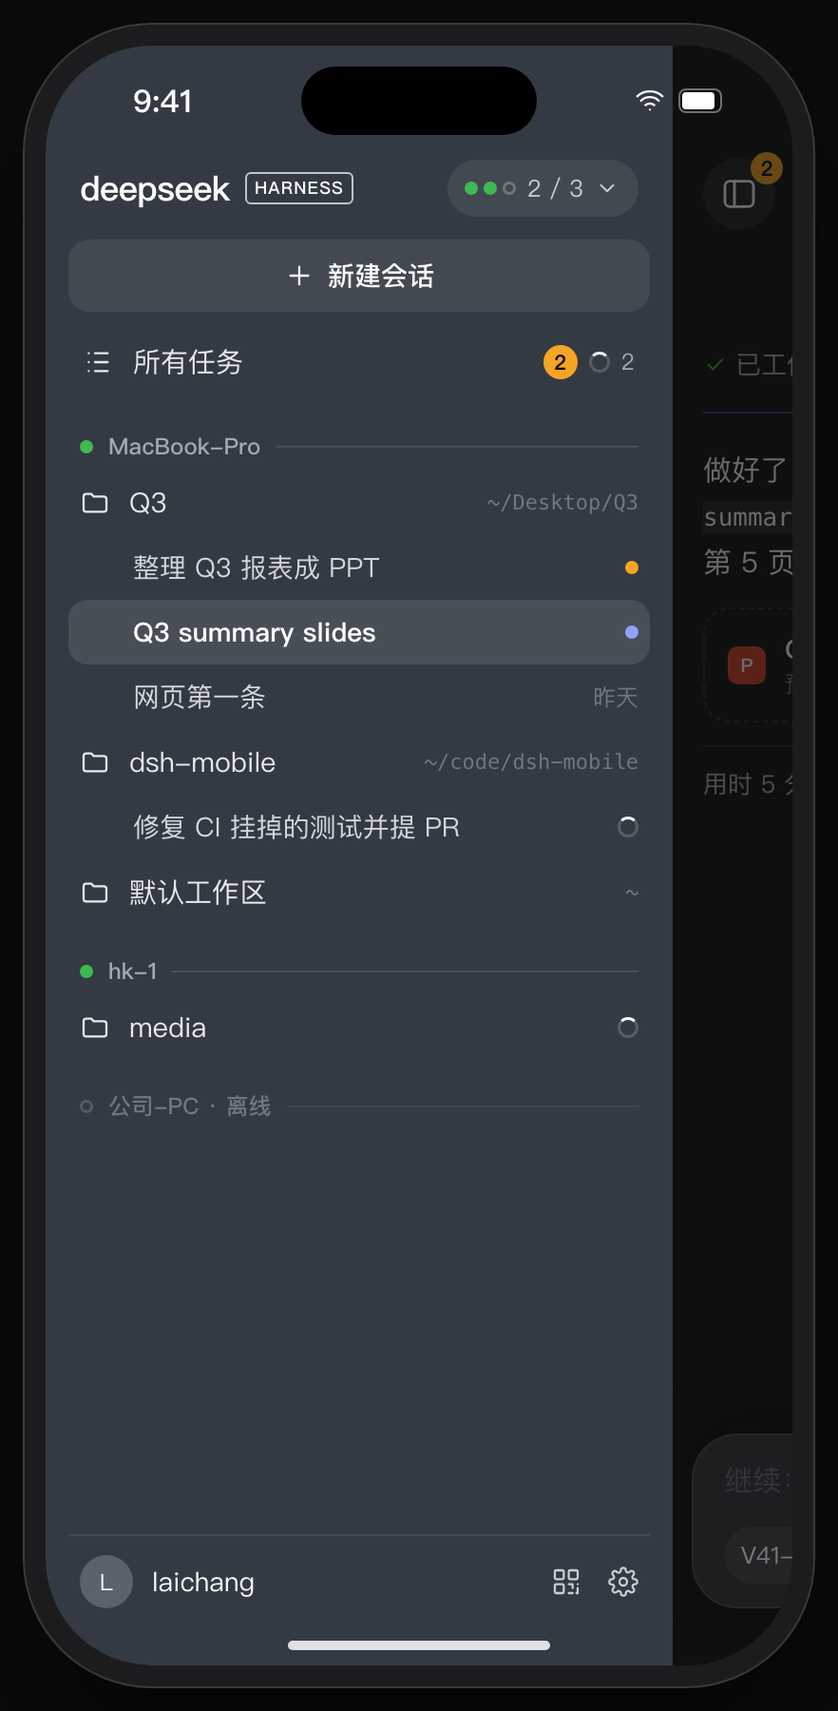
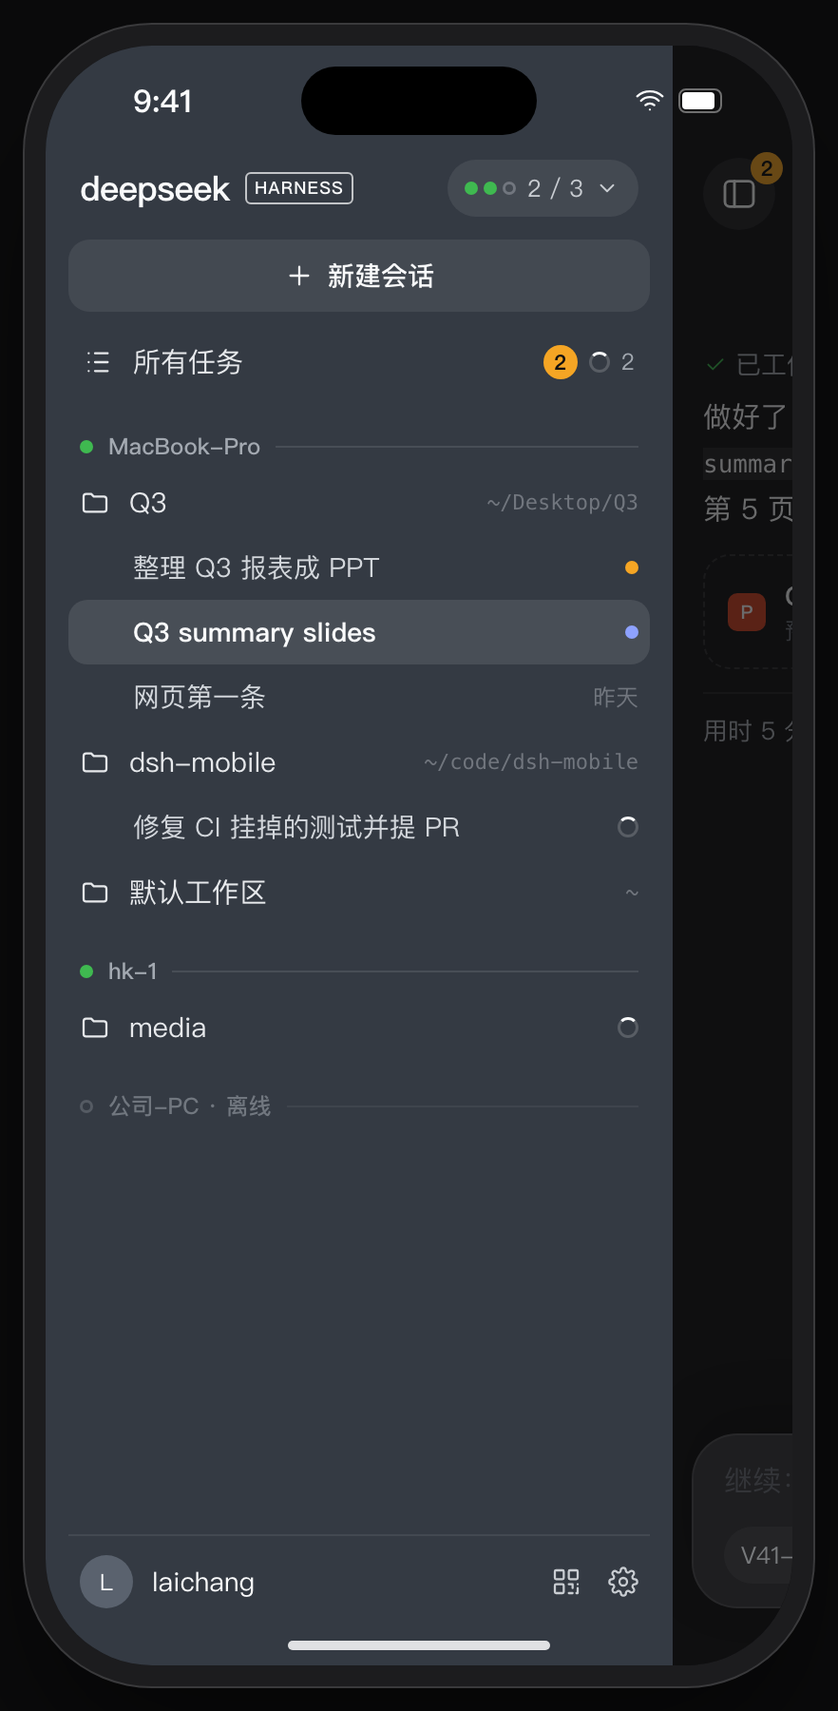
App: photo key on composer 01, thumbnail chip and bubble; D95; design board 01

Changed region(s): [[0.8265, 0.2178, 0.949, 0.4667]]

diff --git a/ios/dsh-mobile/Features/Attachments/PhotoAttachmentViews.swift b/ios/dsh-mobile/Features/Attachments/PhotoAttachmentViews.swift
@@ -1,0 +1,110 @@
+import DSHCore
+import PhotosUI
+import SwiftUI
+import UIKit
+
+/// The photo key on composer 01 (STORY §7, phone as context; ARCHITECTURE D95). It opens the
+/// system photo picker; the picked photo becomes a JPEG for the host and a thumbnail for the chip.
+struct PhotoKey: View {
+    let store: TaskListStore
+    @State private var item: PhotosPickerItem?
+    @State private var loading = false
+
+    var body: some View {
+        PhotosPicker(selection: $item, matching: .images, photoLibrary: .shared()) {
+            Group {
+                if loading { ProgressView().tint(DSHTheme.textSecondary) }
+                else { Image(systemName: "photo").font(.body.weight(.semibold)) }
+            }
+            .foregroundStyle(DSHTheme.textSecondary)
+            .frame(width: 40, height: 40)
+            .background(Color.white.opacity(0.08), in: .circle)
+        }
+        .disabled(store.isSending || loading)
+        .accessibilityLabel("Attach a photo")
+        .accessibilityIdentifier("composer.photo")
+        .onChange(of: item) { _, picked in
+            guard let picked else { return }
+            loading = true
+            Task {
+                defer { loading = false; item = nil }
+                guard let data = try? await picked.loadTransferable(type: Data.self),
+                      let photo = PhotoTranscoder.attachment(from: data) else {
+                    store.attachPhoto(nil)
+                    return
+                }
+                store.attachPhoto(photo)
+            }
+        }
+    }
+}
+
+/// The one photo on the composer: its thumbnail and a key that removes it.
+struct PhotoChip: View {
+    let store: TaskListStore
+    let photo: PhotoAttachment
+
+    var body: some View {
+        HStack(spacing: 0) {
+            PhotoThumbnail(data: photo.thumbnail, size: 56)
+                .overlay(alignment: .topTrailing) {
+                    Button { store.attachPhoto(nil) } label: {
+                        Image(systemName: "xmark.circle.fill")
+                            .symbolRenderingMode(.palette)
+                            .foregroundStyle(DSHTheme.textPrimary, Color.black.opacity(0.6))
+                            .font(.body)
+                    }
+                    .offset(x: 6, y: -6)
+                    .disabled(store.isSending)
+                    .accessibilityLabel("Remove the photo")
+                    .accessibilityIdentifier("composer.photo.remove")
+                }
+                .accessibilityElement(children: .contain)
+                .accessibilityIdentifier("composer.photoChip")
+            Spacer(minLength: 0)
+        }
+    }
+}
+
+/// A rounded, square photo thumbnail (the composer chip and the user bubble).
+struct PhotoThumbnail: View {
+    let data: Data
+    var size: CGFloat = 120
+
+    var body: some View {
+        Group {
+            if let image = UIImage(data: data) {
+                Image(uiImage: image).resizable().scaledToFill()
+            } else {
+                Image(systemName: "photo").foregroundStyle(DSHTheme.textTertiary)
+            }
+        }
+        .frame(width: size, height: size)
+        .clipShape(.rect(cornerRadius: 12))
+        .overlay(RoundedRectangle(cornerRadius: 12).stroke(DSHTheme.hairline))
+    }
+}
+
+/// Turns any photo the picker gives (HEIC, PNG, …) into what the host takes (D95): a JPEG, at most
+/// `maxSide` pixels on its long side, and a small thumbnail JPEG.
+enum PhotoTranscoder {
+    static let maxSide: CGFloat = 2048
+    static let thumbnailSide: CGFloat = 240
+
+    static func attachment(from data: Data) -> PhotoAttachment? {
+        guard let image = UIImage(data: data),
+              let jpeg = resized(image, maxSide: maxSide).jpegData(compressionQuality: 0.8),
+              let thumbnail = resized(image, maxSide: thumbnailSide).jpegData(compressionQuality: 0.7),
+              jpeg.count <= Attachments.maxBytes else { return nil }
+        return PhotoAttachment(data: jpeg, mediaType: "image/jpeg", name: "photo.jpg", thumbnail: thumbnail)
+    }
+
+    private static func resized(_ image: UIImage, maxSide: CGFloat) -> UIImage {
+        let longest = max(image.size.width, image.size.height)
+        let scale = min(1, maxSide / max(longest, 1))
+        let size = CGSize(width: (image.size.width * scale).rounded(), height: (image.size.height * scale).rounded())
+        let format = UIGraphicsImageRendererFormat.default()
+        format.scale = 1
+        return UIGraphicsImageRenderer(size: size, format: format).image { _ in image.draw(in: CGRect(origin: .zero, size: size)) }
+    }
+}

diff --git a/ios/dsh-mobile/Features/Session/SessionPage.swift b/ios/dsh-mobile/Features/Session/SessionPage.swift
@@ -177,12 +177,13 @@ private struct SessionTranscript: View {
                         let showJournal = row.externalSession || messages.filter(\.fromUser).count > 1
                         // S19: the final answer of a finished session with a journal.
                         let finalSeq = showJournal && outcome != nil ? messages.last(where: { !$0.fromUser })?.seq : nil
-                        if !messages.contains(where: \.fromUser) && !row.title.isEmpty {
-                            UserBubble(text: row.title)
+                        let firstUserSeq = messages.first(where: \.fromUser)?.seq
+                        if firstUserSeq == nil && !row.title.isEmpty {
+                            UserBubble(text: row.title, photo: row.photoThumbnail)
                         }
                         ForEach(messages.filter { showJournal || $0.fromUser }, id: \.seq) { message in
                             if message.fromUser {
-                                UserBubble(text: message.text)
+                                UserBubble(text: message.text, photo: message.seq == firstUserSeq ? row.photoThumbnail : nil)
                             } else {
                                 if message.seq == finalSeq {
                                     lead(row, outcome)
@@ -306,21 +307,32 @@ private struct SessionTranscript: View {
 }
 
 /// The user's message: a bubble on the right (DESIGN.md: bubble token).
+/// A photo sent with the message (D95) shows as a thumbnail above it.
 private struct UserBubble: View {
     let text: String
+    var photo: Data? = nil
 
     var body: some View {
-        HStack {
-            Spacer(minLength: 48)
-            Text(verbatim: text)
-                .textSelection(.enabled)
-                .padding(.horizontal, 14)
-                .padding(.vertical, 10)
-                .background(DSHTheme.bubble, in: .rect(cornerRadius: 18))
+        VStack(alignment: .trailing, spacing: 6) {
+            if let photo {
+                PhotoThumbnail(data: photo, size: 140)
+                    .accessibilityElement(children: .ignore)
+                    .accessibilityLabel("Photo")
+                    .accessibilityIdentifier("session.message.user.photo")
+            }
+            HStack {
+                Spacer(minLength: 48)
+                Text(verbatim: text)
+                    .textSelection(.enabled)
+                    .padding(.horizontal, 14)
+                    .padding(.vertical, 10)
+                    .background(DSHTheme.bubble, in: .rect(cornerRadius: 18))
+            }
+            .accessibilityElement(children: .ignore)
+            .accessibilityLabel(text)
+            .accessibilityIdentifier("session.message.user")
         }
-        .accessibilityElement(children: .ignore)
-        .accessibilityLabel(text)
-        .accessibilityIdentifier("session.message.user")
+        .frame(maxWidth: .infinity, alignment: .trailing)
     }
 }
 
@@ -409,6 +421,9 @@ struct ComposerView: View {
                     .foregroundStyle(DSHTheme.amber)
                     .accessibilityIdentifier("composer.error")
             }
+            if let photo = store.composerPhoto {
+                PhotoChip(store: store, photo: photo)
+            }
             TextField("One sentence for your agent", text: $store.prompt, axis: .vertical)
                 .lineLimit(1...5)
                 .focused($editingPrompt)
@@ -416,6 +431,9 @@ struct ComposerView: View {
                 .accessibilityIdentifier("composer.prompt")
                 .onSubmit(send)
             HStack(spacing: 8) {
+                if store.canAttachPhoto {
+                    PhotoKey(store: store)
+                }
                 if let key = store.composerHostKey {
                     modelControl(key)
                 }

diff --git a/design/board.html b/design/board.html
@@ -327,6 +327,7 @@ svg.s{width:16px;height:16px} svg.xs{width:13px;height:13px} svg.l{width:24px;he
   <symbol id="sparkle" viewBox="0 0 24 24"><path d="M12 3l1.8 5.2L19 10l-5.2 1.8L12 17l-1.8-5.2L5 10l5.2-1.8z"/></symbol>
   <symbol id="audit" viewBox="0 0 24 24"><path d="M9 5h10M9 12h10M9 19h10M4 5h.01M4 12h.01M4 19h.01"/></symbol>
   <symbol id="square" viewBox="0 0 24 24"><rect x="7" y="7" width="10" height="10" rx="2" fill="currentColor" stroke="none"/></symbol>
+  <symbol id="photo" viewBox="0 0 24 24"><rect x="3" y="5" width="18" height="14" rx="2.5"/><circle cx="9" cy="10" r="1.6"/><path d="M21 16l-5-5-8 8"/></symbol>
   <symbol id="wifi" viewBox="0 0 24 24"><path d="M2 8.5a15 15 0 0 1 20 0M5 12a10 10 0 0 1 14 0M8.5 15.5a5 5 0 0 1 7 0M12 19h.01"/></symbol>
 </svg>
 
@@ -401,6 +402,7 @@ svg.s{width:16px;height:16px} svg.xs{width:13px;height:13px} svg.l{width:24px;he
     <div style="display:flex;align-items:center;gap:6px;font-size:12.5px;color:var(--t2);margin-bottom:10px"><span class="dot"></span>MacBook-Pro<span style="opacity:.4">·</span><svg class="i xs"><use href="#folder"/></svg>默认工作区<svg class="i xs"><use href="#chevd"/></svg></div>
     <div class="ph">描述任务，/ 命令，@ 文件或会话</div>
     <div class="bar">
+      <span class="pill" style="padding:6px"><svg class="i xs"><use href="#photo"/></svg></span>
       <span class="pill">DeepSeek-V41-Flash <span class="w">· High</span><svg class="i xs"><use href="#chevd"/></svg></span>
       <span class="send idle"><svg class="i s"><use href="#up"/></svg></span>
     </div>
@@ -509,6 +511,7 @@ svg.s{width:16px;height:16px} svg.xs{width:13px;height:13px} svg.l{width:24px;he
   <li>执行端和工作区用默认值，写在输入框顶上；点它换（07）。模型胶囊点开是 M。</li>
   <li>左上角抽屉按钮，琥珀角标 = 「所有任务」里有几件等你处理；历史都在抽屉里。</li>
   <li>发出第一条消息才创建会话；短问题直接在这里答完（S8 的就地回答）。</li>
+  <li>照片键（M2）：从相册选一张照片，输入框上方出现缩略图，可移除；发送时先把照片传到执行端，再建会话。用户气泡上方显示这张缩略图（D95）。执行端不支持时不显示照片键。</li>
 </ul></div>
 </div>
 

diff --git a/ios/dsh-mobileUITests/AttachmentsUITests.swift b/ios/dsh-mobileUITests/AttachmentsUITests.swift
@@ -1,0 +1,37 @@
+import XCTest
+
+/// Attachments (ARCHITECTURE D95) against real DSH with the mock model: attach one photo on
+/// composer 01 with the system photo picker and send. Run by scripts/demo/attachments.sh, which
+/// adds the golden photo to the simulator's library and then checks the DSH session has the image.
+@MainActor
+final class AttachmentsUITests: XCTestCase {
+    func testAttachOnePhotoAndSend() throws {
+        try XCTSkipUnless(env["DSHM_REAL_DSH"] == "1", "run scripts/demo/attachments.sh with a real DSH host")
+        continueAfterFailure = false
+        let app = XCUIApplication()
+        app.launchArguments = ["-DSHMBridgePort", env["DSHM_BRIDGE_PORT"] ?? "47801",
+                               "-DSHMResetPairing", "YES", "-DSHMResetStore", "YES",
+                               "-DSHMPresetPrompt", "What is in this photo?"]
+        app.launch()
+
+        let photoKey = app.buttons["composer.photo"]
+        XCTAssertTrue(photoKey.waitForExistence(timeout: 20), "the host advertises attachments.v1")
+        photoKey.tap()
+        // The system picker runs out of process; its grid lists the newest photo first.
+        let photo = app.images.matching(NSPredicate(format: "label BEGINSWITH 'Photo'")).firstMatch
+        XCTAssertTrue(photo.waitForExistence(timeout: 15), app.debugDescription)
+        photo.tap()
+        let chip = app.descendants(matching: .any)["composer.photoChip"]
+        XCTAssertTrue(chip.waitForExistence(timeout: 10), app.debugDescription)
+        saveShot("attachments-composer")
+
+        app.buttons["composer.send"].tap()
+        let bubblePhoto = app.descendants(matching: .any)["session.message.user.photo"]
+        XCTAssertTrue(bubblePhoto.waitForExistence(timeout: 20), app.debugDescription)
+        let status = app.descendants(matching: .any)["task.status"]
+        XCTAssertEqual(waitForValue(status, in: ["completed", "failed"], timeout: 30), "completed")
+        XCTAssertTrue(bubblePhoto.exists)
+        XCTAssertFalse(chip.exists, "the photo was for this one task")
+        saveShot("attachments-session")
+    }
+}

diff --git a/ARCHITECTURE.md b/ARCHITECTURE.md
@@ -145,6 +145,7 @@ Solid arrows are the outbound path (user → executor), dashed arrows the return
 | D82 | *Confirmed by the user (S29, 2026-11-08).* **A close 4003 (device unknown) is final: the app forgets the host.** The host refuses this device with WebSocket close 4003 in two places (D21 b, D40): on its live sockets right after a revoke of it (from this phone, another client or the web UI), and on every later Noise reconnect. `HostConnection` records the refusal (`deviceRevoked`, `HostConnectionError.deviceRevoked`) from the close of a live socket, a refused handshake (`NoiseChannelError.deviceUnknown`) or a refused transport. `TaskListStore`'s sync loop then stops for that host instead of backing off and retrying: it drops the host and its rows, adds it to `revokedHosts`, and calls `onHostRevoked` once. `AppModel` forgets the host as in D59 (removes the pairing, rebuilds the store) and shows the alert "Access removed: <host> revoked this phone's access. To use it again, pair it again." once; not after a revoke from this phone's X2 whose response arrived first (the user knows). With no host left the root shows 08, else 01 with the other hosts. Before a revoke of this device, the alert (X2 and the drawer's "Devices and audit") says what happens: "This phone will be removed from <host>. <host> will leave the drawer, with nothing left to tap, and the phone will not reconnect to it. To use it again, pair again." (the user, 2026-11-08); a revoke of another device keeps its own message. A host that is only offline (connection refused, timeout, other close codes) is retried with backoff as before. Root cause of the 2026-11-08 report: the app treated 4003 like a dropped connection, so a host that revoked this phone stayed in the drawer and showed "connecting" on every backoff round. D59's forget ran only after the revoke response in X2 (H's host detail). The drawer's "Devices and audit" under each host (S10's `DeviceManagementView`) can also revoke this device, and it only closed the view; a revoke from the web UI or another client has no app path at all. On a real bridge (scripts/demo/s29.sh) the X2 path already worked before the fix (the response arrives before the close) and the drawer path reproduced the bug. `FakeHost` now closes and refuses with 4003 like the bridge (`revokeThisDevice()` revokes from another client). | Alternatives: keep the host in the list as "access removed" with a Pair again button (needs a new reachability state in every host view, and the D59 alternative "keep the revoked host as no access" was not chosen); keep retrying with a long backoff (still never succeeds, and the drawer still shows the host); forget the host without a notice (the user would not know why it went, when the revoke came from another client); ask the bridge to send a `DeviceRevoked` event before the close (a protocol change for the same effect; the close code is already the bridge's contract, D21). |
 | D85 | *Confirmed by the user (S30, 2026-11-08).* **Pairing a host again clears its revoke.** `AppModel.forgottenHostKeys` holds `noise:<host id>` after D59/D82 forget a host, and `PairedHost.id` comes from the host key, so the same Mac paired again has the same key. A successful pairing (`closePairing`) removes that key from the set before it builds or extends the store, so the host shows in the drawer, and a later revoke forgets it (and says so) again. Root cause of the 2026-11-08 report ("Couldn't open your paired computers" after a fresh QR from a Mac that had revoked this phone): `makeStore` dropped the newly paired host, so `store` was nil while `hasSavedHosts` was true; a relaunch hid it, because the set is in memory only. The set stays: the paired-host file is the truth for Noise hosts, but the set keeps a fake host out of the store, says each revoke once, and keeps the Debug loopback away from 08. Test: `S30PairAgainUITests` on a real bridge (scripts/demo/s30.sh). | Alternatives: drop the set and use only the file (the fake hosts and the once-only notice need it); clear the whole set on any pairing (would let another revoked fake host back); key the store by a pairing instance instead of the host key (a larger change for the same effect). |
 | D88 | *Confirmed by the user (S31, 2026-11-08).* **App Transport Security allows cleartext loads (`NSAllowsArbitraryLoads`), the same in Debug and Release.** The app reaches the bridge with plain `ws://` (`WebSocketTransport`, `URLSession`) at the IP addresses in the pairing QR: every external IPv4 of the Mac (LAN, Tailscale 100.x, D21). ATS refuses cleartext to an IP outside the local ranges before any packet leaves the phone (`NSURLErrorAppTransportSecurityRequiresSecureConnection`, -1022); 192.168.x passed, so LAN pairing worked. Root cause of the 2026-11-08 report ("couldn't reach the host at 30.34.227.222:47801, 100.79.171.34:47801"; tcpdump on the Mac saw 0 packets from the app, Safari on the phone reached the bridge). The exception is safe here: every frame is Noise-encrypted and authenticated end to end (D6, D21), and the app talks to no server but the bridge. The key is in `ios/Config/Debug-Info.plist` and `ios/Config/Release-Info.plist` (new; Release had no Info.plist file); `scripts/check-release-clean` fails when the two differ. Also: a pairing failure now names the reason for each address (`PairingError.reason(for:)`, e.g. "URL error -1022, App Transport Security"); the bare "couldn't reach" hid it. Test: `S31PairTailscaleUITests` on a real bridge bound to 0.0.0.0, with a QR that lists only the Mac's non-local addresses (scripts/demo/s31.sh; the Simulator enforces ATS like the phone). Failed before the fix with -1022 for both addresses (`evidence/S31/before-fix-ui.txt`). | Alternatives: `NSAllowsLocalNetworking` (covers only local names and ranges, not 100.64/10 or a public LAN like 30.x); `NSExceptionDomains` (cannot name IP addresses; MagicDNS `*.ts.net` names would need a QR change and still miss a public LAN); a WebSocket on Network.framework (`NWProtocolWebSocket`, which ATS does not cover: keeps ATS on for any later `URLSession` use, but a new transport with its own close-code handling for D82; the choice if App Review objects); `wss://` with TLS on the bridge (a certificate per Mac, which the phone cannot verify without pinning, on top of Noise). |
+| D95 | *Provisional, pending user confirmation (2026-11-08).* **Attachments: one photo in a new task, sent in parts.** A file larger than one Noise message (65535 bytes, D21) goes up before the `CreateTask` that names it (`protocol/attachments.proto`, capability `attachments.v1`). (a) **Wire**: `UploadBegin { upload_id, media_type, name, size, sha256 }` → `UploadAck`; `UploadChunk { upload_id, index, data }` → `UploadAck { received }`, one per part, in order from 0; `UploadEnd` → `UploadStaged`; then `CreateTask.upload_ids`. The app chooses `upload_id`. Each request waits for its response, so the parts need no window or flow control. (b) **Part size 48 KiB** of data (`PART_SIZE`, `Attachments.partSize`): one `UploadChunk` frame stays well under 65535 − 16 bytes. (c) **Size limit 20 MiB** (`MAX_UPLOAD_BYTES`), under DSH's own 50 MiB image limit. The app sends a JPEG: any picked photo (HEIC, PNG, …) is drawn again at most 2048 px on its long side, quality 0.8 (`PhotoTranscoder`), so a phone photo is a few hundred KB, about 5–15 parts. (d) **Hash SHA-256** of the whole file, in `UploadBegin`; the bridge checks it and the size at `UploadEnd`. Refusals are `Error` codes: `upload/too-large`, `upload/media-type` (DSH takes jpeg, png, webp, gif), `upload/missing-part` (a part out of order, or fewer bytes than declared), `upload/hash-mismatch`, `upload/unknown` (a `CreateTask` names an upload that is not staged). A refused upload is dropped; the app sends it again from the start. (e) **Bridge** (`bridge/src/attachments/`): uploads belong to the connection (at most 4 at a time, kept in memory) and are used up by the `CreateTask` that names them. After `sessionController.create`, each photo is staged with `ctx.fileUploads.uploadImageStream` and the first prompt gets `[text, { type: 'file', receiptId }]`: DSH enters an image receipt as that image (D18). (f) **App**: a photo key on composer 01 (`PhotosPicker`, no photo-library permission), one thumbnail chip, upload before `CreateTask`; the user bubble shows the thumbnail. The thumbnail (240 px JPEG) is kept on the phone in `CachedTask.photoThumbnail`; the host has the photo. Golden fixture: `protocol/fixtures/attachments/` (a generated photo of 3 parts), read by the TS and the Swift tests. | Alternatives: inline base64 `image` parts in `CreateTask` (one frame cannot pass 65535 bytes); a separate HTTP upload endpoint on the bridge (a second listener and its own encryption, outside Noise); streaming parts without a response each (faster on a slow link, but needs a window and a resume rule; one photo is a few parts); staging through `fileUploads.uploadStream` as a file (the model then gets a path note, not an image); keeping uploads across reconnects (a store on disk and an expiry; the app can send again); larger parts up to ~64 KiB (little gain, less margin); a 50 MiB limit like DSH (a phone photo after JPEG is far smaller; a smaller limit bounds the bridge's memory). |
 
 ## 4. iOS app (`ios/`)
 
@@ -191,7 +192,7 @@ A Cordis plugin installed into the user's DSH profile. Responsibilities:
 ## 6. Protocol (`protocol/`)
 
 - **Envelope**: WebSocket binary frames → Noise transport messages → protobuf `Frame { oneof { Request, Response, Event, … } }`.
-- **RPC**: request/response correlated by id. Examples: `ListTasks`, `CreateTask`, `Prompt`, `Interrupt`, `AnswerApproval`, `ModelCatalog`, `SelectModel`, `ListWorkspaces`, `GetArtifact`.
+- **RPC**: request/response correlated by id. Examples: `ListTasks`, `CreateTask`, `Prompt`, `Interrupt`, `AnswerApproval`, `ModelCatalog`, `SelectModel`, `ListWorkspaces`, `GetArtifact`, `UploadBegin` / `UploadChunk` / `UploadEnd` (a file in parts, D95).
 - **Events**: server push with a per-host `seq`. Examples: `TaskUpserted`, `MilestoneAdded`, `TranscriptBlock`, `AssistantChunk`, `ApprovalPending`, `ApprovalResolved`, `ArtifactPresented`, `HostStatus`.
 - **Versioning**: `Hello { protocol_version, capabilities[] }` on connect. Protobuf additive-only rules. The bridge supports N and N-1.
 

diff --git a/DESIGN.md b/DESIGN.md
@@ -65,12 +65,12 @@ A phone in front sends work up to a terminal window: the user's own computer (ST
 | §4 Async first; milestones; 所有任务; sessions from other clients; failed or stuck | 02, 03, 04, F1–F4, X1, L |
 | §5 Approvals show impact; never allowed by default; risk tiers; plan and pre-authorization; re-confirm | 03, 05, P3, P2, P4, L |
 | §6 Usable by anyone; first run | 08 |
-| §7 Results come to the phone; phone as context; add to a running task | 06 (M3 card), 04 (M2 composer), P1 · share sheet, photos, voice: not drawn (M3/M4) |
+| §7 Results come to the phone; phone as context; add to a running task | 06 (M3 card), 04 (M2 composer), 01 (M2 photo key), P1 · share sheet, voice: not drawn (M3/M4) |
 | §8 User picks the model; never swapped silently | M, X4, 04 |
 | §9 Control: devices, revocation, audit | H, X2 |
 
 ## Known gaps
 
 - **§6 pairing**: STORY's example is scanning in the DSH interface. 08 says the code is printed in the terminal, as S11 does today. Switch 08 when upstream DSH has a pairing entry (STORY, "依赖上游").
-- **§7 context sources** (share sheet, photos, voice) and **§1 relay**: not drawn. Draw them when M3/M4 are planned.
+- **§7 context sources** (share sheet, voice) and **§1 relay**: not drawn. Draw them when M3/M4 are planned. Photos: one photo in a new session is drawn on 01; files that are not photos, more than one, and photos in a follow-up are not drawn yet.
 - **iPad layout**: not drawn.
